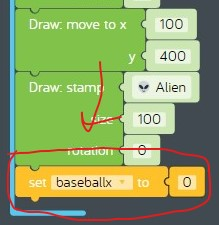
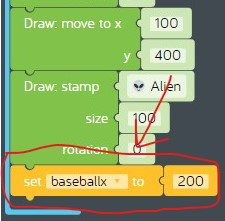
Lesson 6 rewrite

diff --git a/06-loops-and-variables/README.md b/06-loops-and-variables/README.md
@@ -18,20 +18,20 @@ In the previous lesson we created our *baseball toss* sample and drew a picture 
 * [Computer graphics](https://en.wikipedia.org/wiki/Computer_graphics)
   * *Draw* code blocks
     * set background color  
-      ![00-080-010](../images/00-080-010.draw.setbackgroundcolor.jpg)  
-      **figure 00-080-010** "Set background color" code block from Draw tray
+    ![00-080-010](../images/00-080-010.draw.setbackgroundcolor.jpg)  
+    **figure 00-080-010** "Set background color" code block from Draw tray
     * fill colour  
-      ![00-080-040](../images/00-080-040.draw.fillcolour.jpg)  
-      **figure 00-080-040** "Fill colour" code block from Draw tray
+    ![00-080-040](../images/00-080-040.draw.fillcolour.jpg)  
+    **figure 00-080-040** "Fill colour" code block from Draw tray
     * move to  
-      ![00-080-070](../images/00-080-070.draw.moveto.jpg)  
-      **figure 00-080-070** "Move to" code block from Draw tray
+    ![00-080-070](../images/00-080-070.draw.moveto.jpg)  
+    **figure 00-080-070** "Move to" code block from Draw tray
     * ellipse  
-      ![00-080-130](../images/00-080-130.draw.ellipse.jpg)  
-      **figure 00-080-130** "Ellipse" code block from Draw tray
+    ![00-080-130](../images/00-080-130.draw.ellipse.jpg)  
+    **figure 00-080-130** "Ellipse" code block from Draw tray
     * stamp  
-      ![00-080-190](../images/00-080-190.draw.stamp.jpg)  
-      **figure 00-00-080-190** "Stamp" code block from Draw tray
+    ![00-080-190](../images/00-080-190.draw.stamp.jpg)  
+    **figure 00-080-190** "Stamp" code block from Draw tray
 
 ## Challenges
 
@@ -47,44 +47,79 @@ In this hands on exercise, we'll make improvements to the *baseball toss* progra
 
 1. Remix the last version of the *baseball toss* sample you shared. If you can't find it, don't worry, just import it from [baseball-toss.kcode](../05-drawing-with-coordinates/baseball-toss.kcode)
 1. Let's add an alien stamp to the lower-left part of the canvas.
-    1. Drag a new "Draw: move to x y" code block from the "Draw" tray and attach it to the last code block in the "when app starts" event. Set the x coordinate to 100 and the y coordinate to 400.
+    1. Drag a new "Draw: move to x y" code block from the "Draw" tray and attach it to the last code block inside the "when app starts" event. Set the x coordinate to 100 and the y coordinate to 400 which is in the lower-left section of the canvas.
     1. Drag a new "Draw: stamp" code block from the "Draw" tray and attach it to the previous code block. Change the stamp to "Alien".  
     ![06-010](./images/06-010.jpg)  
     **figure 06-010** Add an alien stamp
 1. Next we need to set the drawing position for a new baseball sticker. We’ll do this by creating a variable to set the initial drawing position on the x axis.
-    1. Drag a new "Set item to" code block from the "Variables" tray and attach it to the previous block. Create a new variable by clicking on the drop-down next to the word "item" and select "Create variable" and set the new variable name to "baseballx".
+    1. Find the "set variable" code block on the Variables tray.  
+    ![00-050-040](../images/00-050-040.variables.setvariable.jpg)  
+    **figure 00-050-040** "Set variable" code block in the Variables tray
+    1. Drag a new "set variable" code block from the Variables tray and attach it to the previous block. Create a new variable by clicking on the drop-down next to the word "item" then select "Create variable". Set the new variable name to "baseballx".
+    1. Find the "number" code block on the Variables tray.  
+    ![00-050-010](../images/00-050-010.variables.number.jpg)  
+    **figure 00-050-010** "Number" code block in the Variables tray
     1. Drag a new "number" code block from the "Variables" tray and connect it to the right of the previous block. Change the number from 0 to 200. That means the baseball toss will begin to the right of the alien which is at position 100.  
     ![06-020](./images/06-020.jpg)  
     **figure 06-020** Add a variable named "baseballx" and set it to 200.
-1. Add a new Sticker part for the baseball and move it to the starting position of the baseball toss.
-    1. Click the "+" button in the "Add Parts" section and click on "Sticker". A crocodile shows up in the middle of the canvas because that is the default sticker image. Notice a new "Sticker" section shows up at the bottom of the tray on the left with new code blocks that belong to the Sticker. A Sticker is actually a type of object. Objects have their own programs known as "methods" and their own data known as "properties". Using objects in code is very powerful because they can be controlled independently from other objects in the same program.
-    1. Drag a new "Sticker image" code block from the "Sticker" tray and attach it to the previous code block. Change the image from "Crocodile" to "Baseball". Now you should see a big baseball in the middle of the canvas.
-    1. Drag a new "Sticker: set size to scale" code block from the "Sticker" tray and attach it to the previous code block. Change the number from 100 to 25.  
+1. Now let's use [object-oriented programming](https://en.wikipedia.org/wiki/Object-oriented_programming) to add a baseball using a new Sticker part.
+    1. Find the "Add parts" section in the lower right underneath the canvas.  
+    ![00-500-000](../images/00-500-000.parts.addparts.jpg)  
+    **figure 00-500-000** Add parts
+    1. Click "Add Parts".
+    1. Click on "Sticker" in the "Add Parts" list. A crocodile shows up in the middle of the canvas because that is the default sticker image.  
+    ![00-500-100](../images/00-500-100.parts.sticker.jpg)  
+    **figure 00-500-000** Add a "Sticker" part
+    1. Notice a new Sticker section shows up at the bottom of the tray on the left. A Sticker is a type of object. Objects have their own programs known as "methods" and their own data values known as "properties". Using objects in code is very powerful because each object can be controlled separately from other objects in the same program. Click on the Sticker tray to see all of its methods and properties, then find the "image" code block.  
+    ![00-500-110](../images/00-500-110.parts.sticker.image.jpg)  
+    **figure 00-500-110** "Image" code block in the Sticker tray.
+    1. Drag a new "image" code block from the Sticker tray and attach it to the previous code block. Change the image from "Crocodile" to "Baseball". Now you should see a big baseball in the middle of the canvas.
+    1. Find the "set size to scale" code block in the Sticker tray.  
+    ![00-500-160](../images/00-500-160.parts.sticker.setsizetoscale.jpg)  
+    **figure 00-500-160** "Set size to scale" code bock in the Sticker tray.
+    1. Drag a new "set size to scale" code block from the Sticker tray and attach it to the previous code block. Make the baseball smaller by changing the scale from from 100 to 25.  
     ![06-030](./images/06-030.jpg)  
     **figure 06-030** Add a new Sticker part and change it to a baseball
-1. Okay now for the cool part, tossing the baseball! To do that we are going to need a loop which runs the same code over and over again which moves the baseball to a new location every time the code inside the loop runs. Drag a new "Every 1 seconds" loop from the "Control" tray and attach it to the previous code block. Change "seconds" to "milliseconds" to make the baseball move faster. Do you know how many milliseconds are in a second?
-1. Drag a new "Sticker: move to x y" code block from the "Sticker" tray and connect it to the inside of the "Every 1 milliseconds" loop. Change the y coordinate from 0 to 400, which is the same as the alien.
-1. Drag a new "get variable" code block from the "Sticker" tray and connect it to the x coordinate of the "Every 1 milliseconds" loop. Change the variable from "item" to the variable you created earlier called "baseballx". Now the baseball is getting moved to the same spot right next to the alien over and over again. How do we get it to move?
-1. We can get the baseball to move along the x axis by changing the value of the "baseballx" variable inside the loop. We need to make sure that the new position is still on the canvas, and if it's not, reset "baseballx" to the starting position of the baseball toss.
-    1. Drag a new "if do" code block from the "Logic" tray and connect it to the previous code block. This code block tests a condition, and if it's true it runs the code in the do section.
-    1. Find the "logic compare" code block in the "Logic" tray.  
-        ![06-040](./images/06-040.jpg)  
-        **figure 06-040** "logic compare" code block
-    1. Drag a new "variable get" code block from the "Variables" tray and drop it into the first slot of the new "logic compare" expression. Change "item" to "baseballx".
-    1. Drag a new "number" code block from the "Variables" tray and drop it into the second slot of the new "logic compare" expression. Change the number 0 to 850. Remember, the x axis of the canvas only goes from 0 to 800, so 850 is off the right side of the canvas in imaginary space. This will make it look like the baseball is getting tossed off the canvas.
-    1. Next we need to add the code to the "do" section of the "if do" logic code block. Remember this code gets run only when the expression tested by "if" is true. Drag a new "set item to" code block from the Variables tray and connect it to the inside of the "if do" logic code block. Change "item" to "baseballx".
-    1. Drag a new number code block from the Variables tray and connect it to the right of the "set baseballx to" code block. Change the number from 0 to 200, which is the starting position of the baseball toss on the x axis.
-    1. The final step is to add the code which makes the baseball move by increasing the value of the variable "baseballx". Drag a new "set item to" code block from the Variables tray and connect it to the bottom of the "if do" logic code block. Change "item" to "baseballx".
-    1. Find the "math arithmetic" code block in the Math tray.  
-        ![00-040-020](../images/00-040-020.math.arithmetic.jpg)  
-        **figure 00-040-020** "math arithmetic" code block
-    1. Drag a new "math arithmetic" code bock from the Math tray and connect it to the right of the "set baseballx to" code block. You are going to use this to add 1 to the current value of the "baseballx" variable which will make the baseball move.
-        1. Drag a new "variable get" code block from the Variable tray and drop it into the first slot of the new "math arithmetic" code block. Change "item" to "baseballx".
-        1. Change the number in the second slot of the new "math arithmetic" object from 0 to 1. Check it out the baseball is moving!  
-    ![06-050](./images/06-050.jpg)  
-        **figure 06-050** Loop code which moves the baseball
-1. Try changing the starting position of where the baseball toss begins by changing the initial setting of the "baseballx" from 200 to some other number. What happened?
-1. Now share your creation and everybody will know that you can write computer animation programs! See [baseball-toss-remix-1.kcode](./baseball-toss-remix-1.kcode) for a completed version.
+1. So how do we make the baseball move? To do that we are going to use a [loop](https://www.cs.utah.edu/~germain/PPS/Topics/loops.html) that runs the same [computer animation](https://en.wikipedia.org/wiki/Computer_animation) code over and over again. Each time the code in the loop runs the Sticker will get moved to a new position on the canvas.
+    1. Find the "every do" loop code block in the Control tray.  
+    ![00-020-010](../images/00-020-010.control.everydo.jpg)  
+    **figure 00-020-010** "Every do" loop code block form the Control tray.
+    1. Drag a new "every do" loop code block from the Control tray and attach it to the previous code block. Change "seconds" to "milliseconds" to make the baseball move faster. Do you know how many milliseconds are in a second?
+    1. Find the "move to" code block from the Sticker tray.  
+    ![00-500-170](../images/00-500-170.parts.sticker.moveto.jpg)  
+    **figure 00-500-170** "Move to" code block in the Sticker tray.
+    1. Drag a new "move to" code block from the Sticker tray and connect it to the inside of the "Every 1 milliseconds" loop. Change the y coordinate from 0 to 400, which is the same as the alien. This means that our baseball will not move up or down on the y axis.
+    1. Find the "get variable" code block in the Variables tray.  
+    ![00-050-050](../images/00-050-050.variables.getvariable.jpg)  
+    **figure 00-050-050** "get variable" code block from the Variables tray.
+    1. Drag a new "get variable" code block from the Variables tray and connect it to the x coordinate of the "move to" code block. Change the variable from "item" to "baseballx". This means that our baseball will move on the x axis.
+    1. In order to get the baseball to move we need to change the value of "baseballx" inside the loop. Drag a new "set item to" code block from the Variables tray and connect it to the bottom of the "move to" code block. Change "item" to "baseballx".
+    1. We need to use [arithmetic](https://en.wikipedia.org/wiki/Arithmetic) to change the value of "baseballx". Find the "arithmetic" code block in the Math tray.  
+    ![00-040-020](../images/00-040-020.math.arithmetic.jpg)  
+    **figure 00-040-020** "Arithmetic" code block in the Math tray
+    1. Drag a new "math arithmetic" code bock from the Math tray and connect it to the right of the "set baseballx to" code block.
+    1. Drag a new "variable get" code block from the Variable tray and drop it into the first slot of the new "arithmetic" code block. Change "item" to "baseballx".
+    1. Change the number in the second slot of the new "math arithmetic" object from 0 to 1. The baseball is now moving but we only got one toss. This is because the baseball keeps going after it moves off the right side of the canvas.  
+    ![06-040](./images/06-040.jpg)  
+    **figure 06-040** Loop code which moves the baseball
+    1. We need to use [conditional computer programming](https://en.wikipedia.org/wiki/Conditional_(computer_programming)) to reset "baseballx" when the x coordinate is off the right side of the canvas.
+        1. Find the "if do" code block in the Logic tray.  
+        ![00-030-010](../images/00-030-010.logic.ifdo.jpg)  
+        **figure 00-030-010** "If do" code block from the Logic tray.
+        1. Drag a new "if do" code block from the "Logic" tray and connect it to the previous code block. This code block tests a condition, and if it's true it runs the code in the "do" section.
+            1. Find the "compare" code block in the Logic tray.  
+            ![00-030-030](../images/00-030-030.logic.compare.jpg)  
+            **figure 00-030-030** "Compare" code block in Logic tray
+            1. Drag a new "variable get" code block from the Variables tray and drop it into the first slot of the new "compare" code block. Change "item" to "baseballx".
+            1. Drag a new "number" code block from the Variables tray and drop it into the second slot of the new "compare" code block. Change the number 0 to 850. Remember, the x axis of the canvas only goes from 0 to 800, so 850 is off the right side of the canvas in imaginary space. This will make it look like the baseball is getting tossed off the canvas.  
+            ![06-050](./images/06-050.jpg)  
+            **figure 06-050** "If do" code block checks of "baseballx" is greater than 850.
+            1. Next we need to add the code to the "do" section of the "if do" code block. Remember this code gets run only when the expression tested by "if" is true.
+                1. Drag a new "set variable" code block from the Variables tray and connect it to the inside of the "if do" logic code block. Change "item" to "baseballx".
+                1. Drag a new "number" code block from the Variables tray and connect it to the right of the "set baseballx to" code block. Change the number from 0 to 200, which is the starting position of the baseball toss on the x axis.  
+                ![06-060](./images/06-060.jpg)  
+                **figure 06-060** Reset "baseballx" to 200.
+1. Check it out, when the baseball moves off the right side of the canvas, the alien tosses it again! Now share your creation and everybody will know that you can write computer animation programs! See [baseball-toss-remix-1.kcode](./baseball-toss-remix-1.kcode) for a completed version.
 
 ## What's next
 
